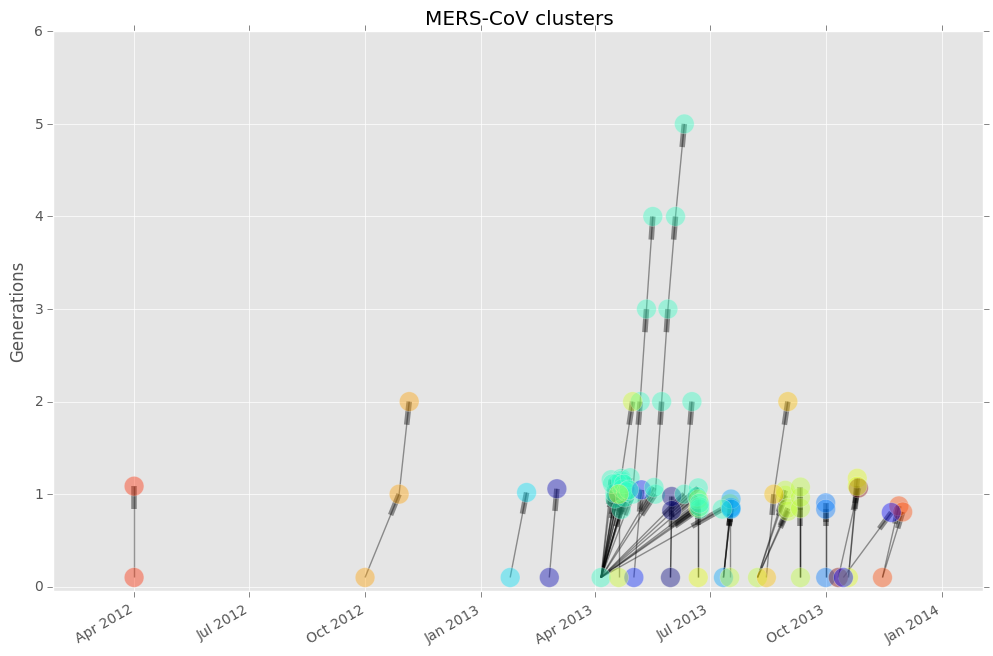
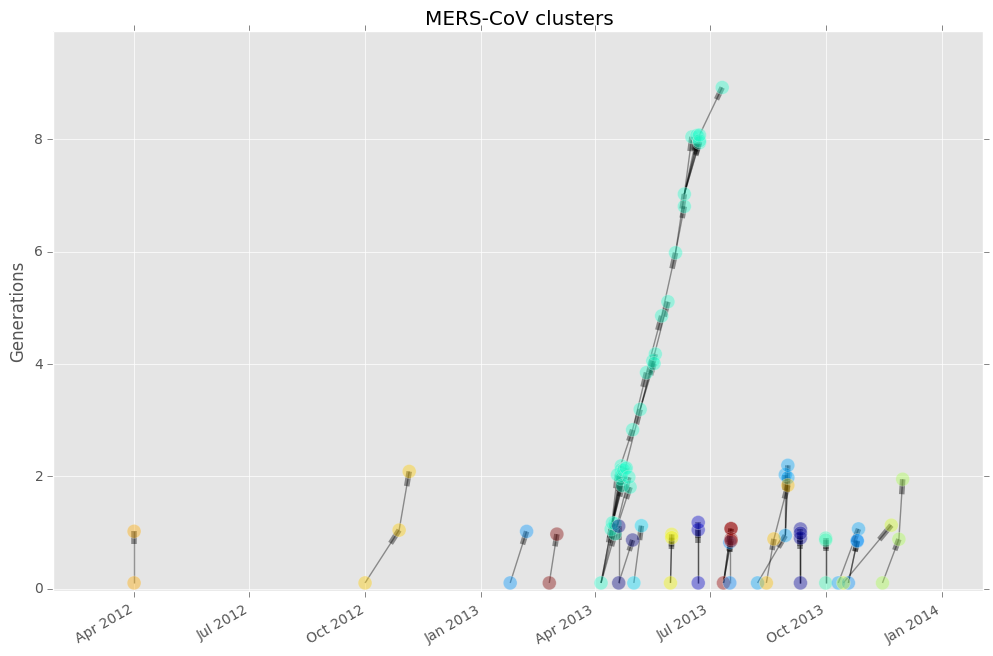
renamed data sets for clarity

diff --git a/py/cluster_builder.py b/py/cluster_builder.py
@@ -82,34 +82,33 @@ def cluster_builder(df, cluster_id, case_id, date_col, color_col, gen_mean, gen_
     gen_min = timedelta((gen_mean - gen_sd), 0)
     gen_max = timedelta((gen_mean + gen_sd), 0)
     
-    mx = []
+    cluster_obj = []
     for key, group in clusters:
         if len(group) > 1:
             row = [tmp[1:4] for tmp in group[[case_id, date_col, color_col]].sort(date_col, ).itertuples()]
-            mx.append(row)
-    #print mx[::-1]
-    global mx
+            cluster_obj.append(row)
+
+    global cluster_obj
     network = []
-    for cluster in mx:  # range(0, len(mx)):
-        #index_node = cluster.pop()[0]  # get id number
-	cluster = np.array(cluster[::-1])
+    for cluster in cluster_obj:
+	cluster = np.array(cluster[::-1]) #reverse dates, last case first
 	ids = cluster[:, 0]
 	dates = cluster[:, 1]
-	names = cluster[:, 2]
-	
-        start_nodes = []
-        for date, idx in zip(dates, ids):
+	colors = cluster[:, 2]
+
+        index_node = ids[-1]
+        source_nodes = []
+        for i, (date, idx) in enumerate(zip(dates, ids)):
             start_date = date - gen_max
             start_node = ids[dates >= start_date][-1]
-            start_nodes.append(start_node)
 
-        index_node = start_nodes[-1]
-	source_node = start_nodes
-	time = dates
-	color = 'color'
+	    if start_node == idx and idx != index_node:
+                start_node = ids[i+1]
+	    
+            source_nodes.append(start_node)
+
         for i in range(len(ids)):
-	    result = (ids[i], color, index_node, source_node[i], time[i])
-            #result = (ids, color, index_node, source_node, time)
+	    result = (ids[i], colors[i], index_node, source_nodes[i], dates[i])
             network.append(result)
             
     df_out = pd.DataFrame(network, columns=['case_id', 'color', 'index_node', 'source_node', 'time'])
@@ -173,28 +172,28 @@ def plot_cluster(df, case_id, clusters, cluster_id, date_col):
 
 # Data (from 2013 MERS outbreak) are available in cmrivers/epipy repo on Github.
 
-#dat = pd.read_csv("../data/Line list & epi stats - Line list.csv", parse_dates=True)
+dat = pd.read_csv("../data/Line list & epi stats - Line list.csv", parse_dates=True)
 
-#dat['Cluster ID'] = dat['Cluster ID'].replace(np.nan, 'single')
-#dat.index = dat['Case #']
-#dat['onset_date'] = dat['Approx onset date'].map(date_convert)
-#dat['report_date'] = dat['Approx reporting date'].map(date_convert)
-#dat['dates'] = dat['onset_date'].combine_first(dat['report_date']) #combines onset and report date columns, with onset date preferential
+dat['Cluster ID'] = dat['Cluster ID'].replace(np.nan, 'single')
+dat.index = dat['Case #']
+dat['onset_date'] = dat['Approx onset date'].map(date_convert)
+dat['report_date'] = dat['Approx reporting date'].map(date_convert)
+dat['dates'] = dat['onset_date'].combine_first(dat['report_date']) #combines onset and report date columns, with onset date preferential
 
-#clusters = cluster_builder(dat, 'Cluster ID', 'Case #', 'dates', 'Cluster ID', 8, 4)
-#clusters.to_pickle('../data/cluster_network.pkl')
+clusters = cluster_builder(dat, 'Cluster ID', 'Case #', 'dates', 'Cluster ID', 8, 4)
+clusters.to_pickle('../data/cluster_network.pkl')
 
-#fig, ax = plot_cluster(dat, clusters, 'Cluster ID', 'dates')
-#ax.set_title("MERS-CoV clusters")
-#fig.savefig('../figs/cluster_checkerboard.png')
+fig, ax = plot_cluster(dat, clusters, 'Case #', 'Cluster ID', 'dates')
+ax.set_title("MERS-CoV clusters")
+fig.savefig('../figs/cluster_checkerboard.png')
 
-dat = pd.read_pickle('test_cluster.pkl')
-dat.index=dat['ID']
-clusters = cluster_builder(dat, 'Cluster', 'ID', 'Date', 'Cluster', 5, 1)
-clusters.to_pickle('../data/test_cluster.pkl')
+#dat = pd.read_pickle('test_cluster.pkl')
+#dat.index=dat['ID']
+#clusters = cluster_builder(dat, 'Cluster', 'ID', 'Date', 'Cluster', 5, 1)
+#clusters.to_pickle('../data/test_cluster.pkl')
 
-fig, ax = plot_cluster(dat, clusters, 'ID', 'Cluster', 'Date')
-ax.set_title("test clusters")
-fig.savefig('../figs/test_clusters.png')
+#fig, ax = plot_cluster(dat, clusters, 'ID', 'Cluster', 'Date')
+#ax.set_title("test clusters")
+#fig.savefig('../figs/test_clusters.png')
 
 

diff --git a/py/case_tree.py b/py/case_tree.py
@@ -40,10 +40,10 @@ except:
     pass
 
 
-def example_data():
-    epi = pd.read_pickle('../data/cluster_network.pkl')
+def example_data(dataset='test_cluster'):
+    epi = pd.read_pickle('../data/{}.pkl'.format(dataset))
     epi.time = pd.to_datetime(epi.time)
-    epi[['case_id', 'source_node']] = epi[['case_id', 'source_node']].astype('int')
+    epi[['case_id', 'source_node', 'index_node']] = epi[['case_id', 'source_node', 'index_node']].astype('int')
     epi['pltdate'] = [mpl.dates.date2num(i) for i in epi.time]
 
     return epi
@@ -62,7 +62,7 @@ def build_graph(df, case_id, color, index, source, date):
     nx.set_node_attributes(G, date, df[date].to_dict())
     nx.set_node_attributes(G, source, df[source].to_dict())
     nx.set_node_attributes(G, color, df[color].to_dict())
-    
+    nx.set_node_attributes(G, index, df[index].to_dict())
     G = nx.DiGraph.reverse(G)
     return G
     
@@ -81,9 +81,10 @@ def plotting(G, node_size=200):
     mycoords = _layout(G, axprop)
     plt.ylim(ymin=-.05, ymax=max([value[1] for value in mycoords.itervalues()])+1)
      
-    values, legend = _colors(G, 'color') #this legend doesn't actually do anything. 
+    color_floats, legend = _colors(G, 'color') #this legend doesn't actually do anything. 
         
-    nx.draw_networkx(G, with_labels=False, pos=mycoords, node_color = values, node_size=node_size, alpha=.4)
+    nx.draw_networkx(G, with_labels=False, pos=mycoords, node_color=color_floats,
+                     node_size=node_size, alpha=.4)
 
     fig.autofmt_xdate()
     
@@ -116,8 +117,12 @@ def _colors(G, color):
         
         if G.node[node]['color'] not in legend:
             legend[G.node[node]['color']] = G.node[node]['new_color']
-    
-    return values, legend
+
+    vals = []
+    for val in values:
+	vals.append(val[0])
+	
+    return vals, legend
 
 
 def _generations(G, node):
@@ -147,7 +152,7 @@ def _layout(G, axprop):
     
     for i in G.nodes():
         # index node (generation = 0)
-        if i == G.node[i]['source_node']:
+        if i == G.node[i]['index_node']:
             xcord = G.node[i]['pltdate']
             generation = 0.1
             
@@ -159,10 +164,10 @@ def _layout(G, axprop):
             ix = i
             xcord = G.node[ix]['pltdate']
             
-            if generation == 1 and G.out_degree(i) == 0:
-                jitterx = np.random.uniform(-xrng/nnodes, xrng/nnodes, 1)
-                jittery = np.random.uniform(-.2, .2, 1)
-                generation = generation + jittery
+            #if generation == 1 and G.out_degree(i) == 0:
+            #    jitterx = np.random.uniform(-xrng/nnodes, xrng/nnodes, 1)
+	    jittery = np.random.uniform(-.2, .2, 1)
+            generation = generation + jittery
         
         G.node[i]['xcord'] = xcord
         G.node[i]['generation'] = generation
@@ -170,11 +175,13 @@ def _layout(G, axprop):
         
     return dict(zip(G, np.array(positions)))
 
-df = example_data()
+df = example_data(dataset='cluster_network')
 G = build_graph(df, color='color', case_id='case_id', source='source_node', index='index_node', date='pltdate')
 
-fig, ax = plotting(G,  node_size=200)
+fig, ax = plotting(G,  node_size=100)
 ax.set_title('MERS-CoV clusters')
 ax.set_ylabel('Generations')
 ax.grid(True)
 fig.savefig('../figs/casetree.png', bbox_inches='tight')
+#fig.savefig('../figs/test.png', bbox_inches='tight')
+plt.show()

diff --git a/py/data_generator.py b/py/data_generator.py
@@ -1,5 +1,5 @@
 # -*- coding: utf-8 -*-
-
+import numpy as np
 import pandas as pd
 import itertools
 import string
@@ -17,7 +17,7 @@ def init(cluster_size, outbreak_len, clusters, generation_time):
         
         rng = int(np.random.normal(cluster_size, 2, 1))
         for n in range(rng):
-            date = date_choice(ix_date[0], generation_time*rng)[0]            
+            date = date_choice(ix_date[0], generation_time*2)[0]            
             sex =  np.random.choice(['M', 'F'], size=1)[0]
             line_list.append((len(line_list), date, cluster_name, sex))
 
@@ -30,7 +30,7 @@ def date_choice(ix_date, generation_time):
     
     return date
 
-lst = init(5, 50, 25, 5)
+lst = init(cluster_size=5, outbreak_len=100, clusters=10, generation_time=5)
 lst.to_pickle('test_cluster.pkl')
 
 

diff --git a/docs/FAQ.md b/docs/FAQ.md
@@ -32,8 +32,10 @@ the sex of the patient, etc.
 
 Checkerboard plots display similar data as a case tree plot, but instead
 of a network it shows a simple time series for each human to human cluster.
+
 The number in the center of each check is the case id that corresponds
-to the the line listing.
+to the the line listing. I have not yet figured out how to display these
+numbers so they don't overlap. Sorry.
 
 ###I have a question/complaint/compliment.
 
